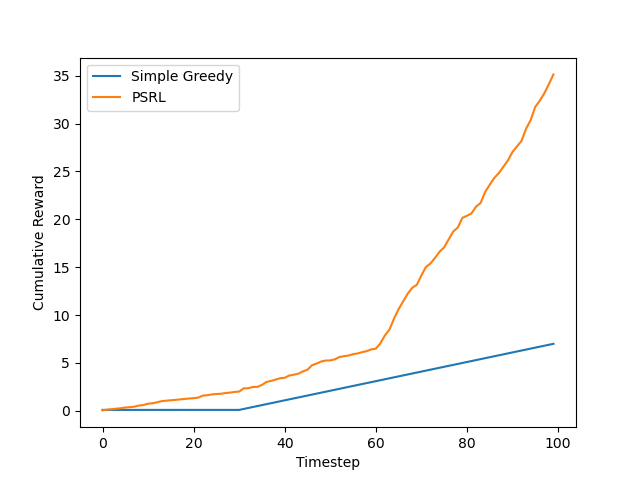
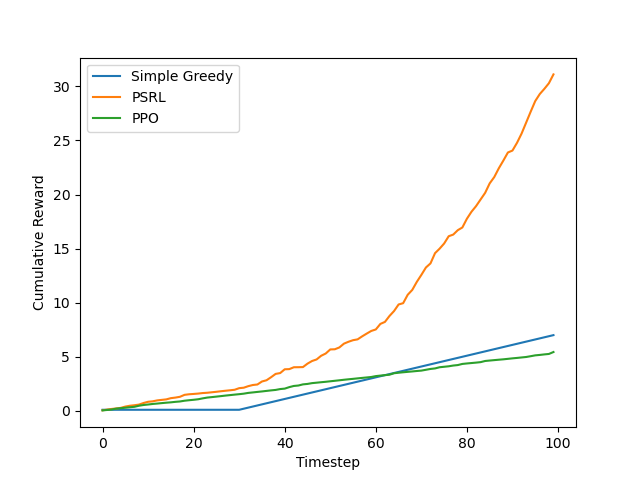
got some final bugfixes in PSRL and implemented PPO

diff --git a/learners.py b/learners.py
@@ -101,23 +101,26 @@ class PSRL(RLAgent):
     def __init__(self):
         # Prior parameter alpha_i = 1 (uniform) for each outcome
         self.alpha_i = 1
-        self.counts = None  # (s,a,o) -> count
+        self.alphas = None  # (s,a,o) -> count
         self.policy = None
         
     def initWithEnvironment(self,env):
         self.env = env
-        self.counts = {}
+        self.alphas = {}
         # Initialize Dirichlet counts with prior alpha_i for every valid (s,a,o)
         for state in self.env.getAllStates():
             for action in range(self.env.getNumActions()):
                 if not self.env.isActionValid(state, action):
                     continue
+
+                self.alphas[(state, action)] = []
                 for outcome in range(self.env.getNumOutcomes()):
-                    self.counts[(state, action, outcome)] = self.alpha_i
+                    self.alphas[(state, action)].append(self.alpha_i)
         self.policy = None
         return True
         
     def chooseAction(self, state, t):
+        # TODO: remove this is none thing, redundant and will lose points
         if self.policy is None:
             # no policy yet, choose random valid action
             validActions = []
@@ -134,43 +137,22 @@ class PSRL(RLAgent):
             # Skip invalid (shouldn't happen if episode well-formed)
             if not self.env.isActionValid(state, action):
                 continue
-            self.counts[(state, action, outcome)] += 1
+            self.alphas[(state, action)][outcome] += 1
         
             
     def episodeStart(self):
-        # Sample a model from the current Dirichlet posteriors
-        obsProbs = {}
+        outcomeProbs = {}
         for state in self.env.getAllStates():
             for action in range(self.env.getNumActions()):
                 if not self.env.isActionValid(state, action):
                     continue
-                # Gather counts for (s,a,·)
-                outcomeCounts = [self.counts[(state, action, o)] for o in range(self.env.getNumOutcomes())]
-                # Sample Dirichlet by sampling gammas and normalizing
-                gammaSamples = []
-                for c in outcomeCounts:
-                    # shape=c, scale=1 gives Gamma(c,1)
-                    gammaSamples.append(random.gammavariate(c, 1.0))
-                total = sum(gammaSamples)
-                # Avoid division by zero (shouldn't occur because c>=1) but safeguard
-                if total == 0:
-                    probs = [1.0 / self.env.getNumOutcomes()] * self.env.getNumOutcomes()
-                else:
-                    probs = [g / total for g in gammaSamples]
-                obsProbs[(state, action)] = probs
-        # Build MDP with sampled transition outcome probabilities and compute optimal policy
-        sampledMDP = mdp.MDP(self.env, obsProbs)
-        self.policy = sampledMDP.computeOptimalPolicy()
+                dirichletPrior = dists.DirichletDistribution(self.alphas[(state, action)])
+                outcomeProbs[(state,action)] = dirichletPrior.sample()
+        self.policy = mdp.MDP(self.env, outcomeProbs).computeOptimalPolicy()
 
     # No need to change this one
     def maxSupportedActions(self):
         return None
-		
-
-
-
-
-
 
 
 
@@ -178,28 +160,94 @@ class PSRL(RLAgent):
 #implements the simplified PPO algorithm as discussed in class
 class PPOLearner(RLAgent):
     def __init__(self, priorParam, numBetweenUpdates, epsilon):
-        # YOUR CODE HERE
-        pass  # remove once implemented
+        self.thetaCurr = priorParam
+        self.numEpsBetweenUpdates = numBetweenUpdates
+        self.epsilon = epsilon
+        self.policy = None
+        self.episodesBetweenUpdatesList = []
+        self.criticDict = {}
+        self.estQvalsDict = {}
 
-        
     def initWithEnvironment(self, env):
-        # YOUR CODE HERE
-        pass  # remove and return True once implemented
+        self.env = env
+        return True
 
     def chooseAction(self, state, t):
-        # YOUR CODE HERE
-        pass  # remove once implemented
+        # TODO: add a comment explaining why
+        if self.thetaCurr > random.random():
+            return 1 # choose action 1
+        else:
+            return 0 # choose action 0
 
     def processEpisode(self, episode):
-        # YOUR CODE HERE
-        pass  # remove once implemented
+        self.episodesBetweenUpdatesList.append(episode)
+        rewardToGo = 0
+        for timestep in range(len(episode)-1, -1, -1):
+            (state, action, outcome) = episode[timestep]
+            reward = self.env.getReward(state, action, outcome)
+            rewardToGo += reward
 
+            # doing this the long way because I dont like .get            
+            if (state, action, timestep) not in self.estQvalsDict:
+                self.estQvalsDict[(state, action, timestep)] = (0,0) # (count, summedRewards)
+            if (state, timestep) not in self.criticDict:
+                self.criticDict[(state, timestep)] = (0,0) # (count, summedRewards)
+             
+            (count, summedrewards) = self.estQvalsDict[(state, action, timestep)]
+            count += 1
+            summedrewards += rewardToGo
+            self.estQvalsDict[(state, action, timestep)] = (count, summedrewards)
+
+            (count, summedrewards) = self.criticDict[(state, timestep)]
+            count += 1
+            summedrewards += rewardToGo
+            self.criticDict[(state, timestep)] = (count, summedrewards) 
+    
+
+    def objectiveFunc(self, optimizeQuantity, additionalArgs):
+        thingSum = 0 # TODO: choose better name and check if dividing optimizeQuantity by thetaCurr is correct
+        (oldTheta, epsilon, critic, estQvals, clipFunc) = additionalArgs
+        for episode in self.episodesBetweenUpdatesList:
+            for timestep in range(len(episode)):
+                (state, action, outcome) = episode[timestep]
+                (criticCount, criticSum) = critic[(state, timestep)]
+                (estQCount, estQSum) = estQvals[(state, action, timestep)]
+                currAdvantage = estQSum/estQCount - criticSum/criticCount
+                thingSum += min(currAdvantage * (optimizeQuantity / oldTheta),
+                                currAdvantage * clipFunc(optimizeQuantity / oldTheta, 
+                                                           1 - epsilon, 
+                                                           1 + epsilon
+                                                        )
+                            )
+        return thingSum                
+    
     def updatePolicy(self):
-        # YOUR CODE HERE
-        pass  # remove once implemented
+        newTheta = scipy.optimize.minimize(self.objectiveFunc, x0=self.thetaCurr, args=((self.thetaCurr, self.epsilon, self.criticDict, self.estQvalsDict, self.clipFunc),), bounds=[(0,1)])
+        argminTheta = newTheta.x[0]
+        self.thetaCurr = argminTheta
+    
+    def clipFunc(self, value, lower, upper):
+        if value < lower:
+            return lower
+        elif value > upper:
+            return upper
+        else:
+            return value
+
+    def resetCriticAndEstQvals(self):
+        self.criticDict = {}
+        self.estQvalsDict = {}
+        for action in range(self.env.getNumActions()):
+            for state in self.env.getAllStates():
+                for timestep in range(self.env.getTimeHorizon()):
+                    self.criticDict[(state, timestep)] = (0,0) # (count, summedRewards)
+                    self.estQvalsDict[(state, action, timestep)] = (0,0) # (count, summedRewards)
 
     def episodeStart(self):
-        pass # is this right?
+        if len(self.episodesBetweenUpdatesList) - 1 == self.numEpsBetweenUpdates:
+            self.updatePolicy()
+            self.episodesBetweenUpdatesList = []
+            self.resetCriticAndEstQvals()
 
     # No need to change this one
     def maxSupportedActions(self):
